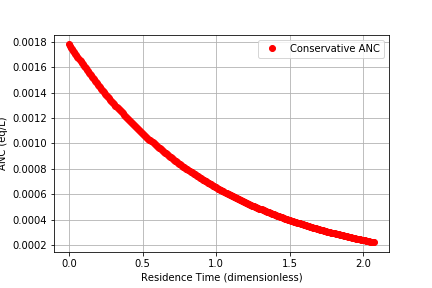
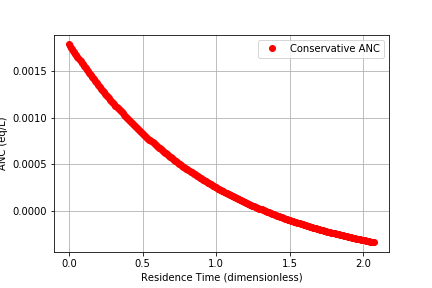
qfqfw

diff --git a/Lab3.md b/Lab3.md
@@ -72,10 +72,10 @@
 
 Mass=623*u.mg
 ANC0=Mass/V/(84*u.mg)/(1000)*u.equivalent
-ANCIN = 0*u.eq/u.L
+ANCIN = -0.000631*u.eq/u.L
 
 y2 = y
-y2 = ANC0*2.71828**(-x).to(u.dimensionless).magnitude
+y2 = ANCIN*(1-(2.71828**(-x).to(u.dimensionless).magnitude))+ANC0*2.71828**(-x).to(u.dimensionless).magnitude
 
 fig, ax = plt.subplots()
 # plot the data as red circles
@@ -183,7 +183,7 @@ $$ANC_{out} \; =\; ANC_{in} \; \cdot \; \left(1\; -\; {\mathop{e}\nolimits^{-t/\
 The pH dropped a lot faster for the calcium carbonate versus when we used sodium carbonate. This indicates that the calcium carbonate has a lower ANC than the sodium carbonate. Therefore the acid rain was able to neutralize it quicker and drop the pH faster.
 
 Questions:
-1. Because sodium bicarbonate has a density of 2.2 g/cm^3, as it is added to the lake without the use of a stirrer, it will sink. While some of it will dissolve as it moves downward, that water will increase in density and sink as well. At the end of this, the pH near the top of the lake will be much lower than at the bottom, causing the top to be acidic. 
+1. Because sodium bicarbonate has a density of 2.2 g/cm^3, as it is added to the lake without the use of a stirrer, it will sink. While some of it will dissolve as it moves downward, that water will increase in density and sink as well. At the end of this, the pH near the top of the lake will be much lower than at the bottom, causing the top to be acidic.
 
 2. The calcium carbonate did not dissolve as it was stirred in, which led to a steady drop in pH as acid was pumped into the lake. Instead, it sunk to the bottom corners of the lake. This is a significant complication, because since CaCO3 is less soluble, more dense, and cannot contribute ANC, it is ineffective.
 
